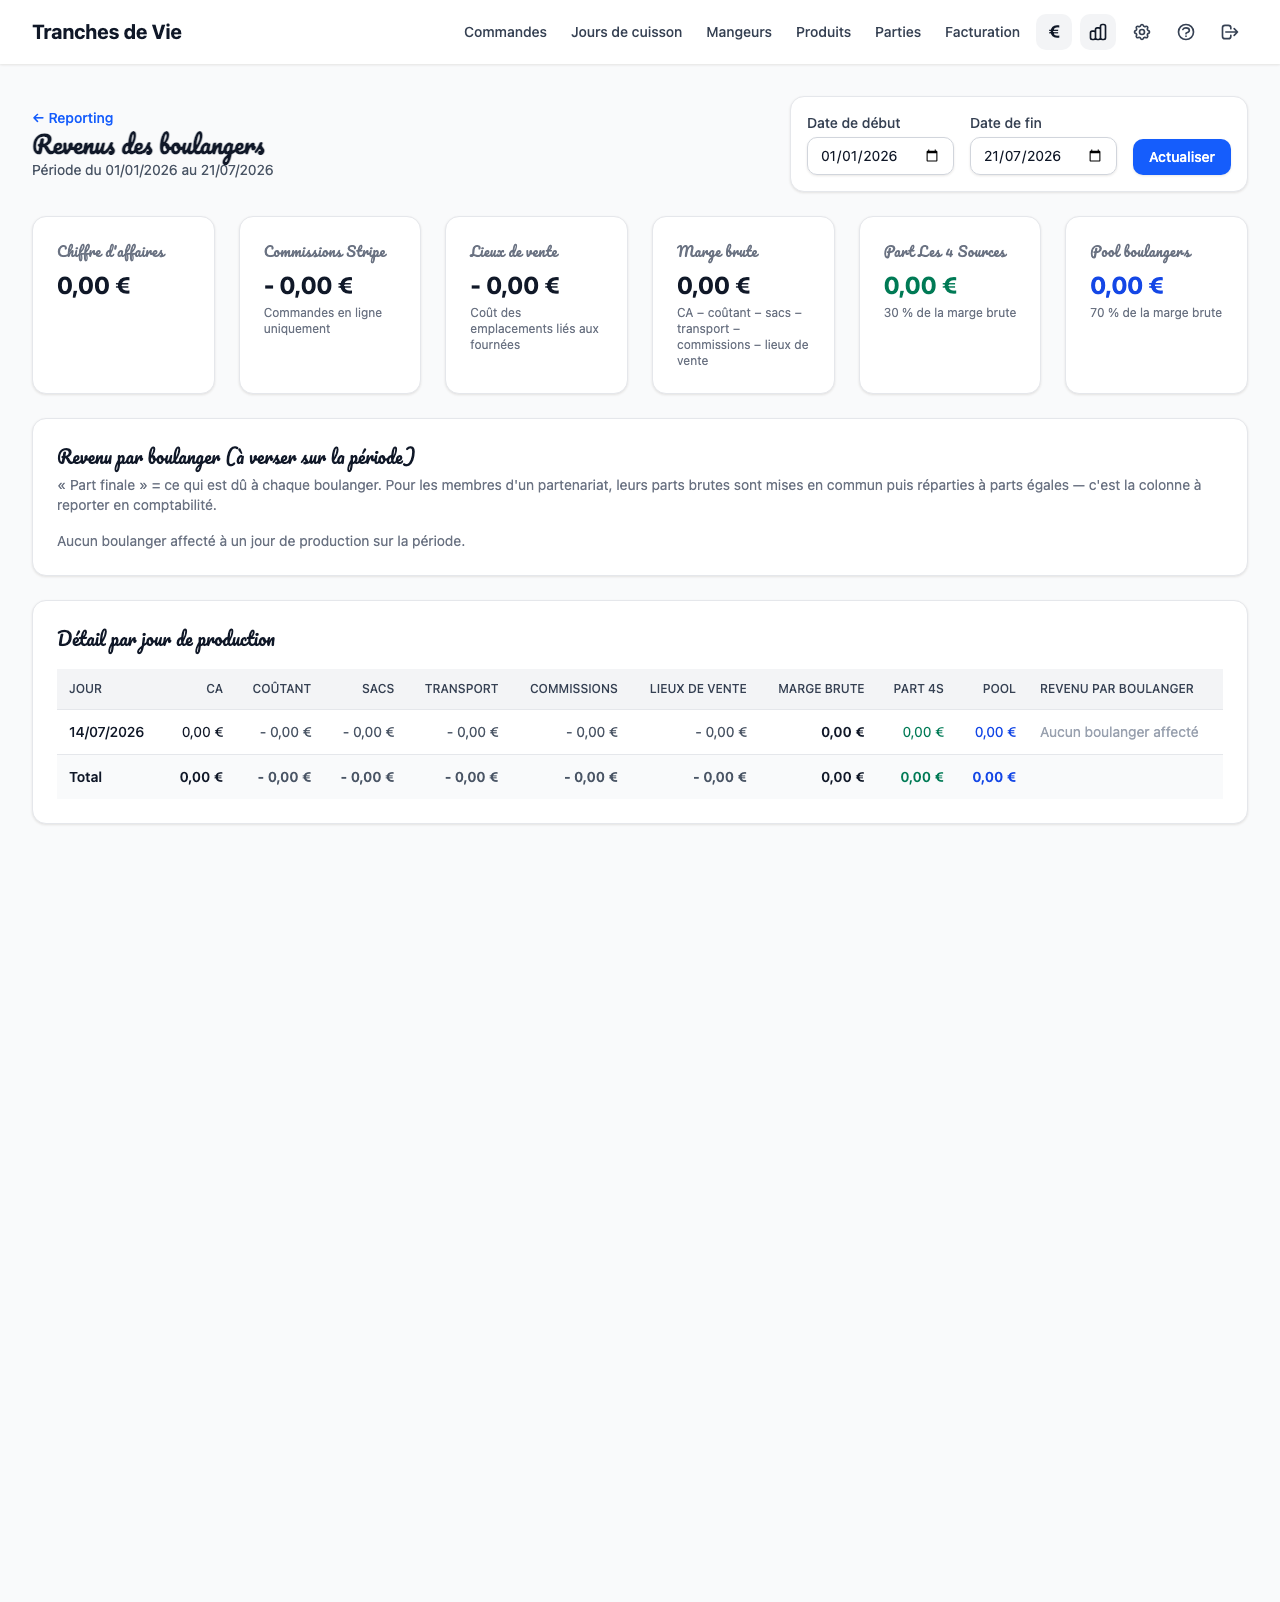
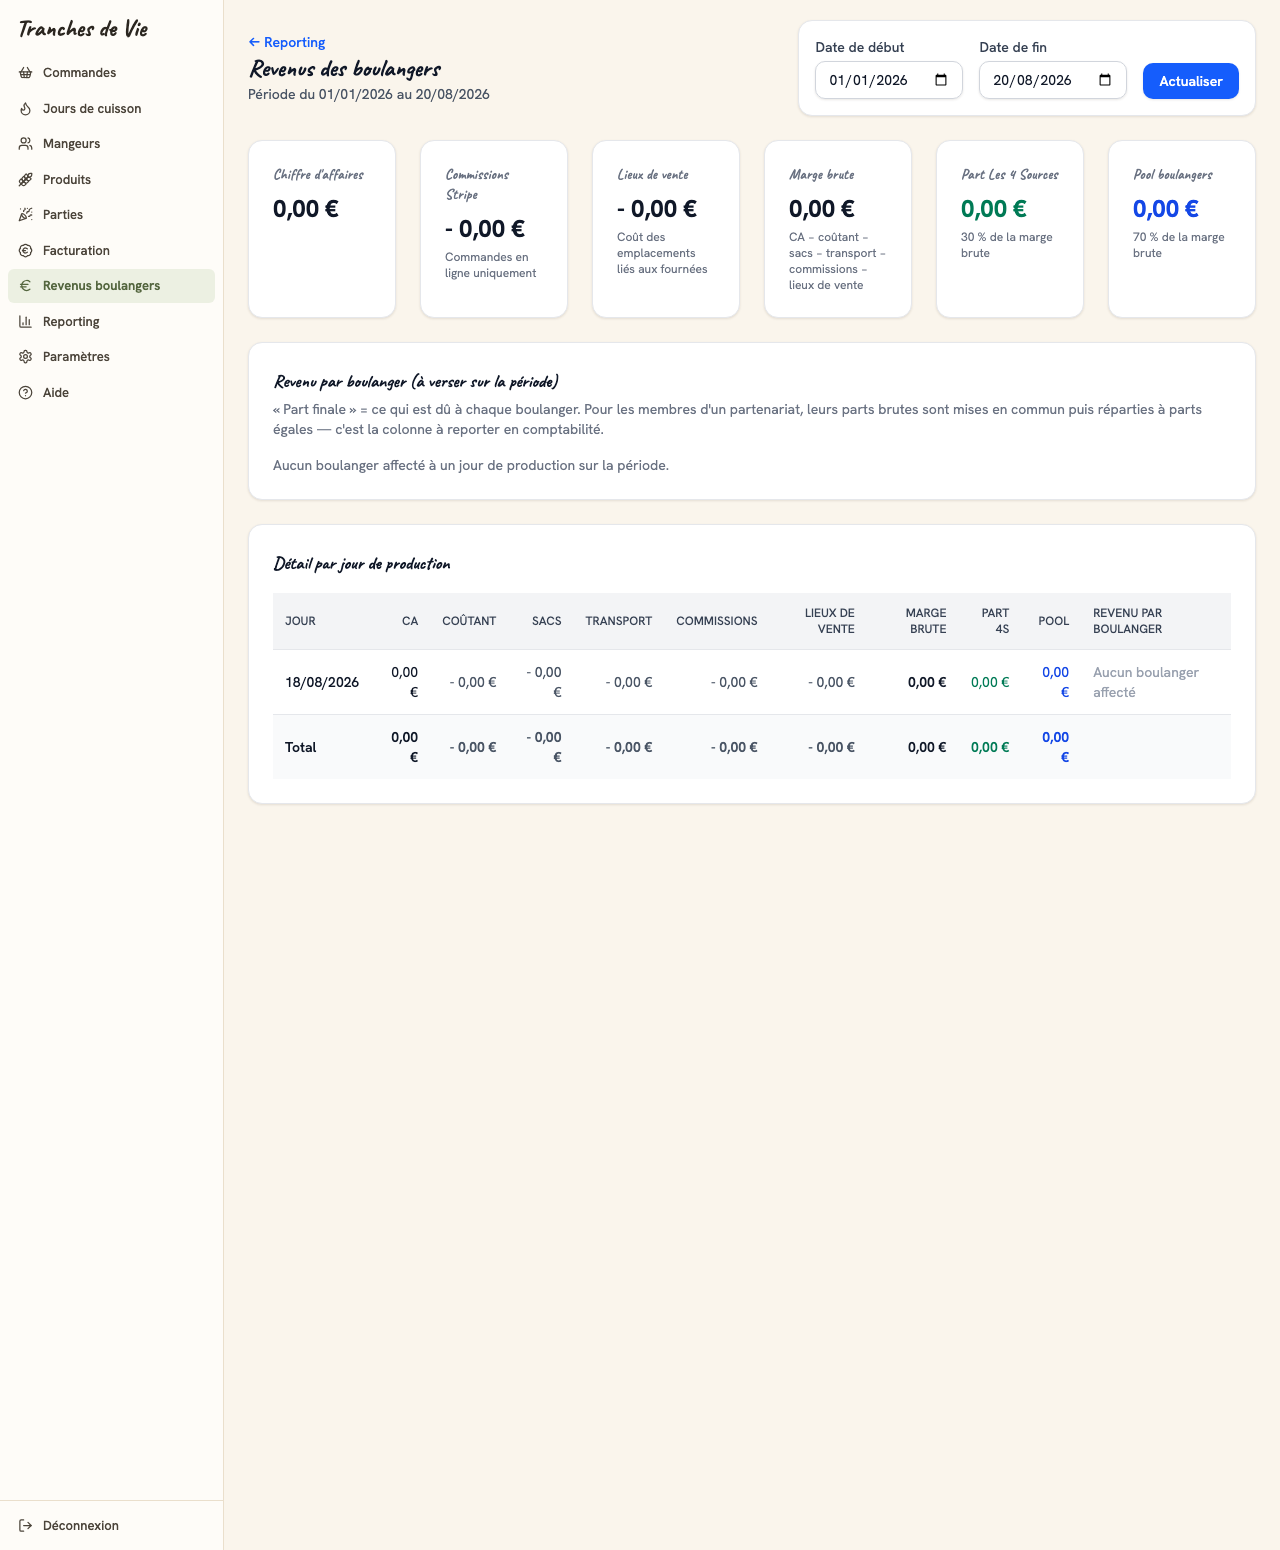
Captures d'aide régénérées + une seule voix manuscrite dans l'admin
Le CLAUDE.md impose de relancer `bin/rails aide:screenshots` après tout changement de l'admin : la fondation l'avait oublié, et le centre d'aide des boulangers montrait un admin qui n'existe plus. Les 13 captures sont régénérées — elles servent au passage de preuve visuelle de la refonte.

Les régénérer a révélé deux incohérences de typographie. L'admin rendait tous ses titres en Pacifico alors que le Design System a retenu Caveat pour la boutique : le titre de la page Commandes, passé en Caveat, jurait avec les 91 autres. L'admin s'aligne donc sur Caveat — une seule voix manuscrite dans l'application, et Pacifico n'est plus chargé.

Seconde incohérence : la règle globale `h1…h6` rendait manuscrit l'en-tête de carte « Toutes les commandes ». Un titre de carte n'est pas une signature de marque ; dans les composants `.adm-card`, les titres reprennent la police de texte. Le manuscrit reste réservé au titre de page.

diff --git a/app/assets/stylesheets/application.css b/app/assets/stylesheets/application.css
@@ -83,11 +83,23 @@
   color: #1e40af;
 }
 
-/* Admin garde Pacifico ; le storefront (.tdv-storefront) passe à Caveat (police
-   du Design System). :where() = spécificité nulle, donc les utilitaires Tailwind
-   font-script / font-sans gagnent toujours sur les titres explicitement classés. */
+/* Caveat partout — c'est la police manuscrite du Design System. L'admin gardait
+   Pacifico le temps que la refonte de la boutique se stabilise ; la refonte de
+   l'admin aligne les deux, une seule voix manuscrite dans l'application.
+   :where() = spécificité nulle, donc les utilitaires Tailwind font-script /
+   font-sans gagnent toujours sur les titres explicitement classés. */
 h1, h2, h3, h4, h5, h6 {
-  font-family: "Pacifico", cursive;
+  font-family: "Caveat", cursive;
+  font-weight: 700;
+}
+
+/* Un titre de carte ou de section n'est pas une signature de marque : dans les
+   composants admin, les titres reprennent la police de texte. Le manuscrit est
+   réservé au titre de page (.tdv-script). */
+.adm-card h1, .adm-card h2, .adm-card h3, .adm-card h4, .adm-card h5, .adm-card h6,
+.adm-cardhd h1, .adm-cardhd h2, .adm-cardhd h3 {
+  font-family: var(--font-sans);
+  font-weight: 600;
 }
 
 :where(.tdv-storefront) h1,
